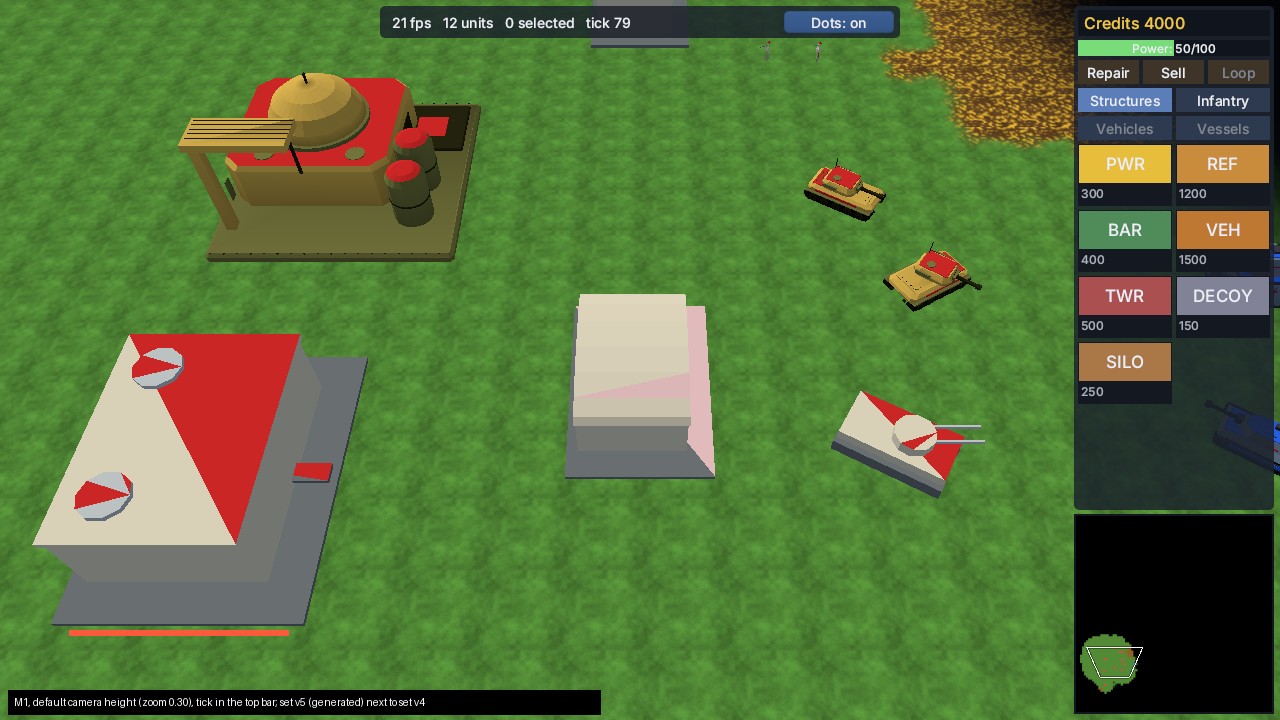
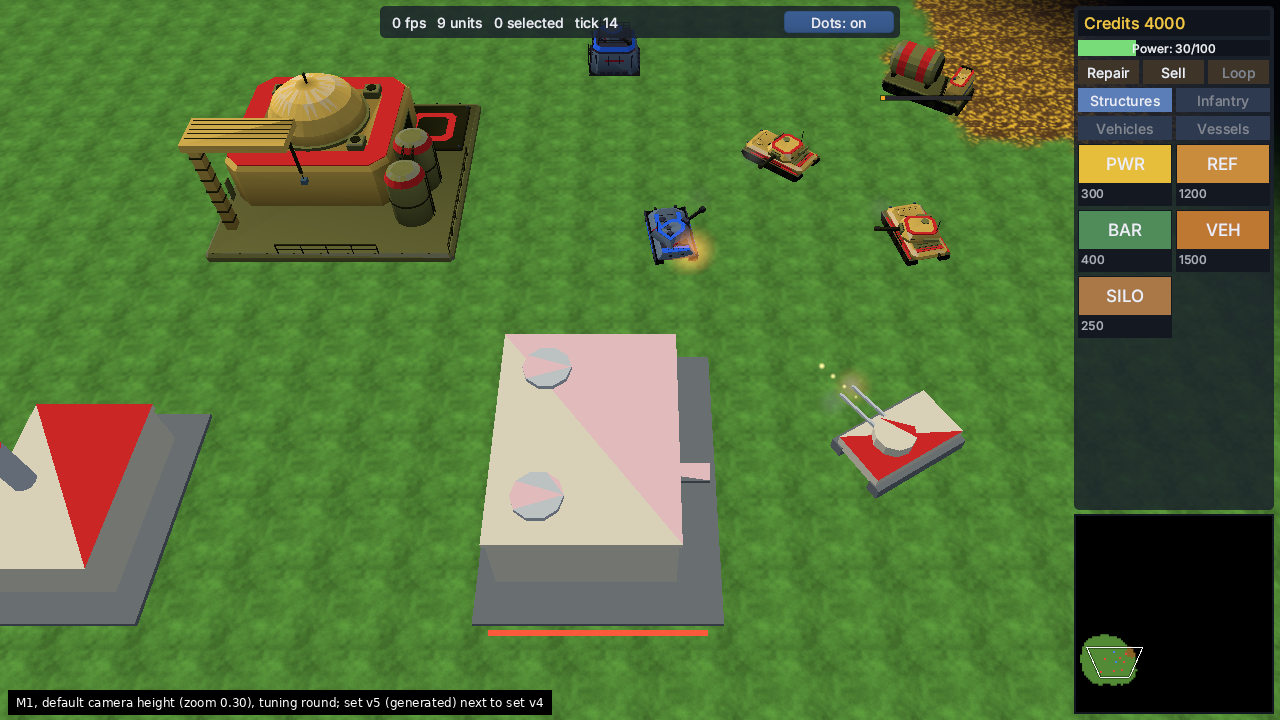
WP11.6a tuning round: M1 shots, art-style rules, progress
Claude-Session: https://claude.ai/code/session_01E9comaZi2PE6iTmoHWTfFn

diff --git a/docs/art-style.md b/docs/art-style.md
@@ -46,10 +46,16 @@ A test pins the shipped values (`tools/sf_model_gen/tests/models.rs`,
 
 The team colour is the engine's dynamic region (the material named `team`):
 
-- vivid **bands and panels**: the turret roof, hull side panels, the rear deck, building roof
-  panels, bands round a drum or a tank; never a single triangle and never a diagonal;
-- **20-40 % of the top-down view in every level** (`sf_asset_check`'s `team-share` rule; LOD1 and LOD2
-  too), and at least 12 team triangles per level (`the_team_colour_is_bands_and_panels_never_one_triangle`);
+- **bands and trim, never whole surfaces** (tuning round 14-11-2026): a band round the turret roof
+  edge, a stripe across the rear deck, a stripe along the fenders or the hull top, panels on the
+  skirts, a band round a building's roof edge, a flange on a stack, the shoulder of a tank, a pad
+  marking, bands round a drum; never a full roof, never a single triangle and never a diagonal. A
+  roof band is built with `kit::frame` and the roof inside it is filled flush (`team_frame` in the
+  recipes), because a band standing proud of a large roof face darkens all of it in the baked AO;
+- **aim at 20-25 % of the top-down view in every level**; `sf_asset_check`'s `team-share` rule still
+  asks 20-40 %, the generator test caps it at 30 %
+  (`the_checker_finds_nothing_and_the_team_share_is_20_to_30_percent_in_every_level`); at least 12
+  team triangles per level (`the_team_colour_is_bands_and_panels_never_one_triangle`);
 - the team vertices carry no baked shade (the loader ignores `COLOR_0` on them), so every player
   colour shows at full strength.
 
@@ -66,16 +72,30 @@ The renderer has one directional light, an ambient term and no shadows or textur
 baked per vertex into `COLOR_0` (`tools/sf_model_gen/src/shade.rs`), which the loader multiplies into
 the material colour:
 
-- **ambient occlusion:** 17 rays per corner over the face's hemisphere, 1.4 m reach, up to 60 %
-  darker where all are blocked (creases, under overhangs, between hull and tracks);
-- **grime:** up to 22 % darker at the ground, fading out at 1.1 m;
+- **ambient occlusion:** 17 rays per corner over the face's hemisphere, 1.4 m reach; the blocked
+  share times 2 (`AO_GAIN`, tuning round: twice as visible), up to 60 % darker (so half the rays
+  blocked is already the full darkening: creases, under overhangs, between hull and tracks);
+- **grime:** up to 40 % darker at the ground, fading out at 1.3 m (tuning round: about twice the
+  first 22 %);
 - **downward faces** up to 30 % darker;
 - **facet variation** of +-3.5 % per triangle from a fixed hash (no randomness), so large flat areas
   are not one sheet;
-- the **tone** of a detail (panel line 56 %, recess 72 %).
+- the **tone** of a detail (panel line 56 %, recess 72 %, track shoe 82 %);
+- **top-edge highlight:** a face that slopes upward (a bevel or chamfer on top, normal `y` between
+  0.2 and 0.97) is 16 % brighter;
+- **edge wear:** a bevel strip (no axis-aligned normal, narrower than 320 mm) whose corner sees open
+  sky (no AO ray blocked) is, on about two thirds of its triangles (fixed hash), moved 35 % towards a
+  grey a quarter above its luminance: lighter and less saturated, as paint rubbed thin. Big slanted
+  facets (a dome segment) are not edges and get none.
 
-Keep colours clean and bright: the AO darkens creases, not whole surfaces. Light edge wear is not
-built yet (a gap: the bevels catch the light instead).
+The vertex colour is RGB: the wanted linear colour divided by the material factor, which is a grey at
+the palette colour's brightest channel over 0.85 (`shade::factor`). A plain open face therefore shows
+exactly the palette colour, and highlights and worn edges stay inside glTF's 0..1 range. The team
+material keeps its own factor and ignores `COLOR_0`. Tests: `tools/sf_model_gen/tests/shade.rs`
+(one per rule: plain colour, highlight, wear, crease and grime).
+
+Keep colours clean and bright: the AO darkens creases, not whole surfaces; judge it in the engine
+render (contact sheet), not only in numbers.
 
 ## 6. Levels of detail
 
@@ -90,6 +110,13 @@ One recipe builds all three levels from `kit::Lod`:
 
 Budgets (the art brief): units 1500 / 500 / 150, buildings 5000 / 1500 / 300 triangles; LOD1 at
 most 40 % and LOD2 at most 15 % of LOD0 (`every_level_is_inside_its_budget_and_really_reduced`).
+
+**Detail budget** (tuning round 14-11-2026, `buildings_use_their_detail_budget`): a building uses
+**2,500-3,500 triangles in LOD0** on real geometry: vents with louvres, pipe runs with flanges,
+railings (`kit::railing`), roof units with fans, window rows with frames, door frames, bolted panels,
+ladders and walkways; that detail is LOD0 only, so LOD1 and LOD2 stay far below. A vehicle stays
+under 1,500 and spends it where it reads at game distance: capped road wheels with hubs, track
+shoes (one raised face each), hatches, smoke dischargers, tools on the fenders, lamps and exhausts.
 
 ## 7. Node tree
 

diff --git a/assets/LICENSES.md b/assets/LICENSES.md
@@ -95,7 +95,7 @@ Made by our own generator; nothing downloaded. One line per model file; the cuts
 | `set_v5/veyran_power_plant.glb` | **Own work.** Generated by this project with `cargo run -p sf_model_gen` (`tools/sf_model_gen`, WP11.6a): integer-millimetre geometry, vertex colours and baked shading; no external mesh, texture or third-party material; the recipe is `tools/sf_model_gen/src/models.rs`, a test checks the committed file equals a fresh run. Style reference: a concept sheet generated with Canva at the project owner's request, not shipped and not traced; author: Claude (Anthropic) | Project license (see workspace `Cargo.toml`) |
 | `config/model_palette.ron` | **Own work.** The set v5 palette (style G, decision Tijmen 14-11-2026), read by `tools/sf_model_gen`; author: Claude (Anthropic) | Project license (see workspace `Cargo.toml`) |
 | `scenes/restyle_v5/captain_elian/*.png`, `scenes/restyle_v5/mira/*.png` | **Own work.** The parts (and mouth shapes) of the two rigs of `scenes/f1_m01_briefing.ron`, redrawn in the set v5 style by `cargo run -p sf_model_gen` (`tools/sf_model_gen/src/cutout.rs`): two tones, a soft shade and a thin outline, integer maths, PNG written by the tool; the list of files is what `sf_model_gen::cutout_files()` returns (a test checks the folder holds exactly those); not used by the shipped scene yet; author: Claude (Anthropic) | Project license (see workspace `Cargo.toml`) |
-| `../docs/screenshots/wp11.6a/*.png` | Pictures made by `crates/sf_render/tests/set_v5_load.rs` (contact sheet), `tools/sf_model_gen/tests/cutout.rs` (cutscene frame before and after) with `SF_SAVE_SHOTS` (offscreen render with Mesa lavapipe), and the real game window (`xvfb-run sf_game --match <M1 with extra starting objects> --shots`, Mesa lavapipe); labels added with a small script | Project license (see workspace `Cargo.toml`) |
+| `../docs/screenshots/wp11.6a/*.png` | Pictures made by `crates/sf_render/tests/set_v5_load.rs` (contact sheet), `tools/sf_model_gen/tests/cutout.rs` (cutscene frame before and after) with `SF_SAVE_SHOTS` (offscreen render with Mesa lavapipe; `contact_sheet_before_after.png` puts rows of the first contact sheet next to the tuning round's), and the real game window (`xvfb-run sf_game --match <M1 with extra starting objects> --shots`, Mesa lavapipe); labels added with a small script | Project license (see workspace `Cargo.toml`) |
 
 ## Art set v4 (`assets/set_v4`): project licence
 

diff --git a/docs/progress.md b/docs/progress.md
@@ -3482,3 +3482,4 @@ measurement (peak, length, silence, the mix below), not by ear. **Tijmen: please
 * **Measured.** Triangles LOD0/1/2: construction_center 1902/518/224, harvester 1456/442/138, Meridian light tank 1488/484/136, defence tower 762/142/90, Veyran light tank 1286/366/122, power plant 1158/318/82. Team share 23-39 % in every level. `sf_asset_check assets/set_v5`: 6 pass, no warnings. A full generator run takes about 2 s (opt-level 3 for this package in the dev profile).
 * **Pictures** in `docs/screenshots/wp11.6a/`: contact sheet, M1 at the default zoom, 0.70 and the farthest zoom with the new models next to set v4, and the briefing's two-shot before and after the restyled parts. **Stop for Tijmen: style check.**
 * **Gaps.** No edge wear yet; the buildings use a fifth of their budget; at the farthest zoom the icons cover the models, as before; the restyled cutscene parts are not used by the shipped scene (Phase 12); the M1 pictures use a scratch copy of `m1.ron` with extra starting objects (not committed), and the Veyran half of it is in the shroud.
+* **Tuning round (14-11-2026, orchestrator review: "tidy low-poly, not G").** Team colour is bands and trim (roof-edge bands with `kit::frame` and a flush fill, deck and fender stripes, stack flanges, tank shoulders, a pad marking): 20.7-23.9 % in every level, test cap 30 %. Shading: AO gain 2, grime 40 % up to 1.3 m, a 16 % top-edge highlight on upward bevels and edge wear on narrow open bevels; `COLOR_0` is now RGB over a grey material factor (`shade::factor`) so a plain face is still the palette colour. Buildings 3194/2584/3478 triangles in LOD0 (vents, pipes, railings, roof units, windows, door frames, bolted panels, ladders, walkways), vehicles 1264-1474 (capped wheels with hubs, track shoes, hatches, smoke dischargers, tools). New `tools/sf_model_gen/tests/shade.rs`, `buildings_use_their_detail_budget`; pins re-pinned; `contact_sheet_before_after.png` added, the contact sheet and M1 shots re-rendered (the Veyran tower and a tank now stand in view).
